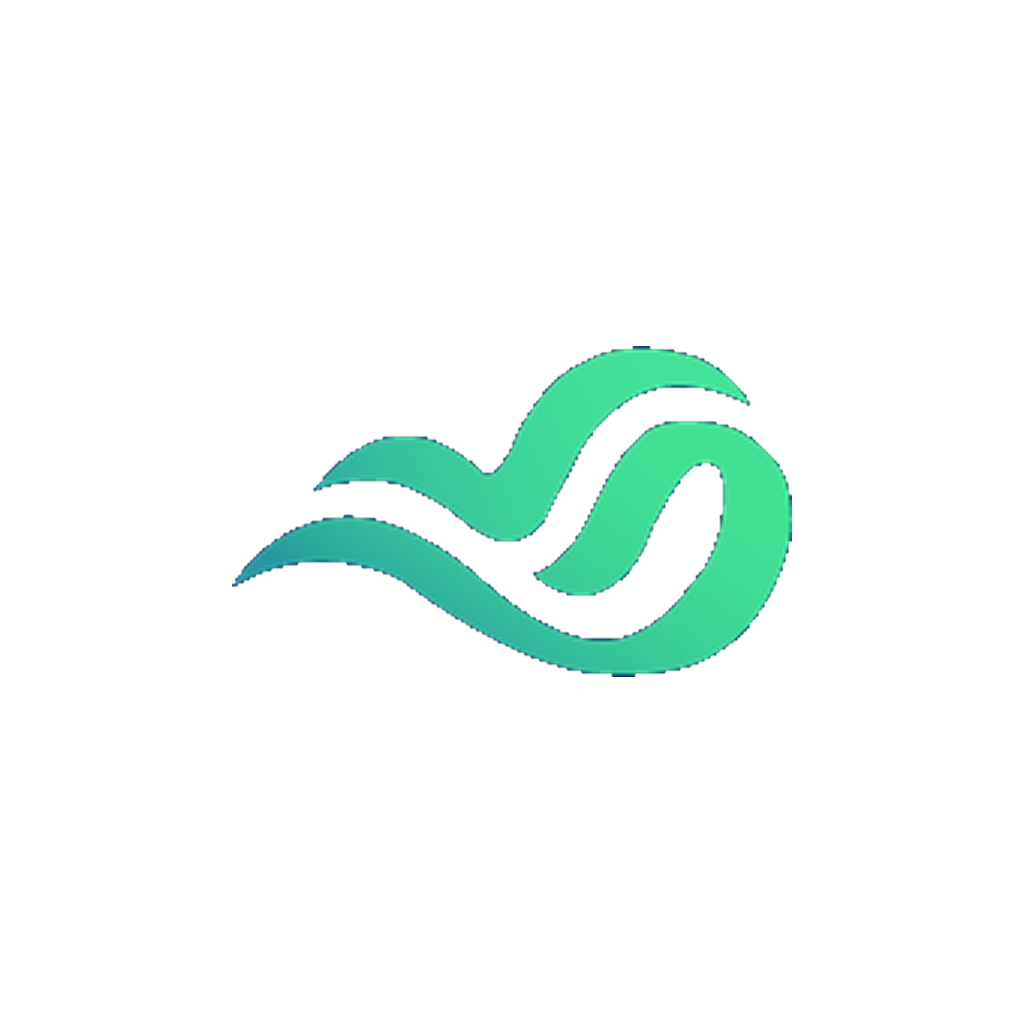
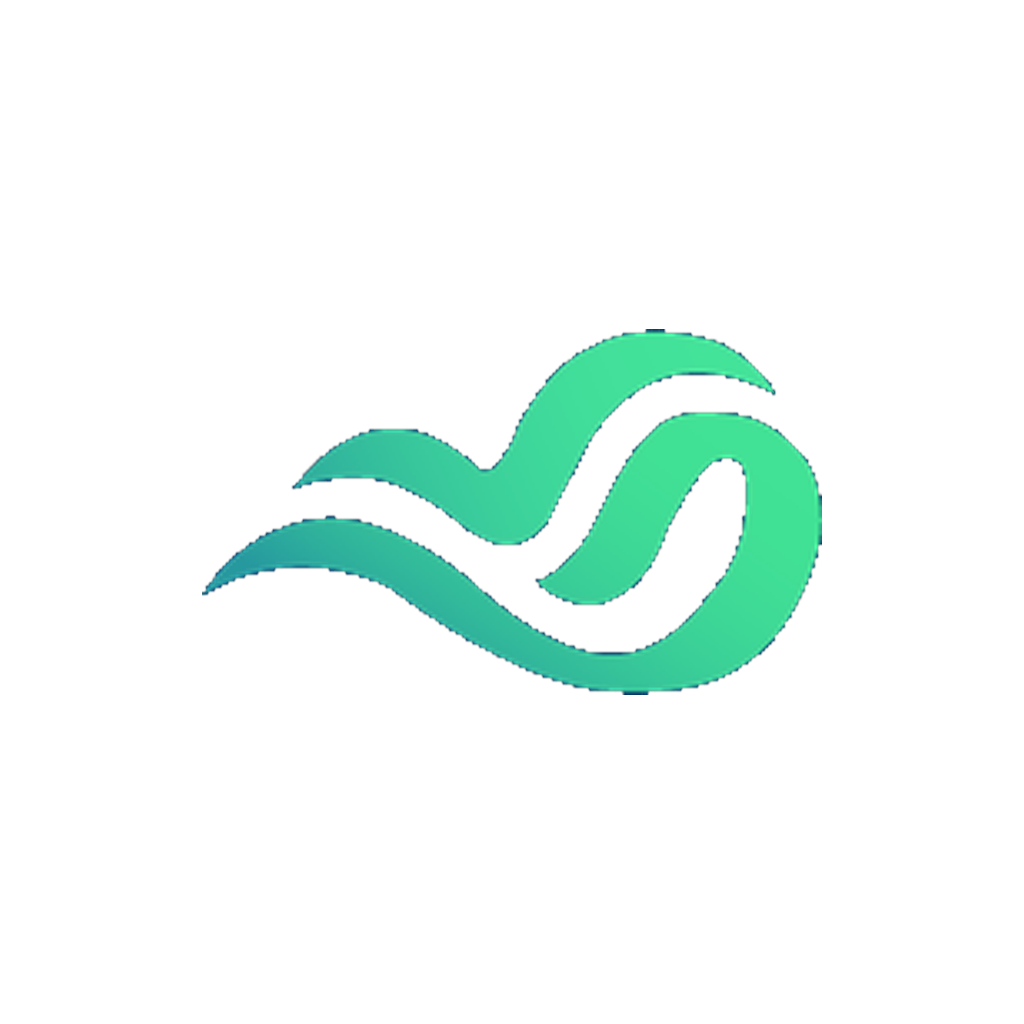
fix(ui): eliminar bordas brancas em telas grandes, blindar categoria Outros e calibrar dimensoes do brand kit

Changed region(s): [[0.1875, 0.3125, 0.8125, 0.6875], [0.5, 0.375, 0.5312, 0.4375], [0.4375, 0.4375, 0.5, 0.4688]]

diff --git a/src/app/categories.tsx b/src/app/categories.tsx
@@ -46,8 +46,16 @@ export default function CategoriesScreen() {
   const [metaMinutes, setMetaMinutes] = useState('0');
 
   // Identifica categoria do sistema / protegida (Outros)
-  const isSystemCategory = (cat: Category) => {
-    return cat.id === 'cat-outros' || cat.name.trim().toLowerCase() === 'outros';
+  const isSystemCategory = (cat: Category | null | undefined) => {
+    if (!cat) return false;
+    const norm = (cat.name || '').trim().toLowerCase();
+    const id = (cat.id || '').toLowerCase();
+    return (
+      id === 'cat-outros' ||
+      id === 'outros' ||
+      norm === 'outros' ||
+      norm === 'outro'
+    );
   };
 
   // Filtra apenas stickers que o usuário realmente possui (isOwned === true)
@@ -90,8 +98,11 @@ export default function CategoriesScreen() {
       return;
     }
 
+    const isSystem = editingCategory ? isSystemCategory(editingCategory) : false;
+    const finalName = isSystem ? editingCategory!.name : trimmedName;
+
     // Valida duplicidade de nome (ignorando maiúsculas/minúsculas)
-    const isDuplicate = categories.some(
+    const isDuplicate = !isSystem && categories.some(
       (c) =>
         c.name.trim().toLowerCase() === trimmedName.toLowerCase() &&
         c.id !== editingCategory?.id
@@ -114,7 +125,7 @@ export default function CategoriesScreen() {
 
     upsertCategory(
       editingCategory ? editingCategory.id : null,
-      trimmedName,
+      finalName,
       formColor,
       formStickerId,
       calculatedMeta
@@ -322,15 +333,22 @@ export default function CategoriesScreen() {
                       backgroundColor: theme.surfaceElevated,
                       borderColor: theme.outline,
                       color: theme.textPrimary,
+                      opacity: editingCategory && isSystemCategory(editingCategory) ? 0.7 : 1,
                     },
                   ]}
                   value={formName}
                   onChangeText={setFormName}
                   placeholder="Ex: Trabalho, Estudos, Saúde..."
                   placeholderTextColor={MomentusColors.textMuted}
-                  autoFocus
+                  autoFocus={!editingCategory || !isSystemCategory(editingCategory)}
+                  editable={!editingCategory || !isSystemCategory(editingCategory)}
                   maxLength={40}
                 />
+                {editingCategory && isSystemCategory(editingCategory) && (
+                  <Text style={{ fontSize: 11, color: theme.textSecondary, marginTop: 4, marginBottom: 8 }}>
+                    O nome da categoria padrão &#34;Outros&#34; é protegido pelo sistema e não pode ser alterado.
+                  </Text>
+                )}
 
                 {/* Seção Informativa de Meta Semanal (Bloqueada com Badge "Em breve") */}
                 <View
@@ -543,6 +561,7 @@ const styles = StyleSheet.create({
     flex: 1,
     width: '100%',
     backgroundColor: MomentusColors.navyBackground,
+    ...(Platform.OS === 'web' ? { minHeight: '100vh' as any } : {}),
   },
   container: {
     flex: 1,

diff --git a/src/app/+html.tsx b/src/app/+html.tsx
@@ -18,6 +18,18 @@ export default function Root({ children }: PropsWithChildren) {
         <link rel="apple-touch-icon" sizes="180x180" href="/apple-touch-icon.png" />
         <title>Momentus</title>
         <ScrollViewStyleReset />
+        <style
+          dangerouslySetInnerHTML={{
+            __html: `
+              html, body, #root {
+                background-color: #0B1220;
+                min-height: 100%;
+                margin: 0;
+                padding: 0;
+              }
+            `,
+          }}
+        />
       </head>
       <body>{children}</body>
     </html>

diff --git a/src/app/signup.tsx b/src/app/signup.tsx
@@ -392,10 +392,10 @@ const styles = StyleSheet.create({
     alignSelf: 'center',
   },
   logoCircle: {
-    width: 72,
-    height: 72,
-    borderRadius: 36,
-    borderWidth: 1,
+    width: 80,
+    height: 80,
+    borderRadius: 40,
+    borderWidth: 1.5,
     alignItems: 'center',
     justifyContent: 'center',
     marginTop: 12,
@@ -407,8 +407,8 @@ const styles = StyleSheet.create({
     shadowRadius: 8,
   },
   logoSymbolImage: {
-    width: 44,
-    height: 44,
+    width: 58,
+    height: 34,
   },
   title: {
     fontSize: 24,

diff --git a/src/app/index.tsx b/src/app/index.tsx
@@ -555,9 +555,9 @@ const styles = StyleSheet.create({
     borderRadius: 60,
   },
   logoBadge: {
-    width: 96,
-    height: 96,
-    borderRadius: 48,
+    width: 104,
+    height: 104,
+    borderRadius: 52,
     alignItems: 'center',
     justifyContent: 'center',
     shadowColor: MomentusColors.emeraldNeon,
@@ -567,8 +567,8 @@ const styles = StyleSheet.create({
     elevation: 8,
   },
   logoImage: {
-    width: 58,
-    height: 58,
+    width: 72,
+    height: 44,
   },
   brandTitle: {
     ...TypographyTokens.heroTitle,

diff --git a/src/app/templates.tsx b/src/app/templates.tsx
@@ -959,6 +959,7 @@ const styles = StyleSheet.create({
     flex: 1,
     width: '100%',
     backgroundColor: MomentusColors.navyBackground,
+    ...(Platform.OS === 'web' ? { minHeight: '100vh' as any } : {}),
   },
   container: {
     flex: 1,
@@ -1179,6 +1180,7 @@ const styles = StyleSheet.create({
     flex: 1,
     width: '100%',
     backgroundColor: MomentusColors.navyBackground,
+    ...(Platform.OS === 'web' ? { minHeight: '100vh' as any, width: '100vw' as any } : {}),
   },
   formModalContainer: {
     flex: 1,

diff --git a/src/components/momentus/WeeklySummaryModal.tsx b/src/components/momentus/WeeklySummaryModal.tsx
@@ -247,7 +247,7 @@ export const WeeklySummaryModal: React.FC<WeeklySummaryModalProps> = ({
                   >
                     <Image
                       source={require('@/../assets/images/brand/symbol-transparent.png')}
-                      style={{ width: 14, height: 14 }}
+                      style={{ width: 18, height: 11, marginRight: 2 }}
                       resizeMode="contain"
                     />
                     <Text style={[styles.brandText, { color: primaryColor }]}>

diff --git a/src/app/_layout.tsx b/src/app/_layout.tsx
@@ -67,6 +67,9 @@ function TabsNavigator() {
       <Tabs
         screenOptions={{
           headerShown: false,
+          sceneStyle: {
+            backgroundColor: theme.background,
+          },
           tabBarStyle: isAuthScreen
             ? { display: 'none' }
             : {

diff --git a/src/app/more.tsx b/src/app/more.tsx
@@ -409,9 +409,9 @@ const styles = StyleSheet.create({
     marginBottom: 8,
   },
   brandFooterLogo: {
-    width: 140,
-    height: 38,
-    opacity: 0.85,
+    width: 180,
+    height: 32,
+    opacity: 0.9,
   },
 });
 
